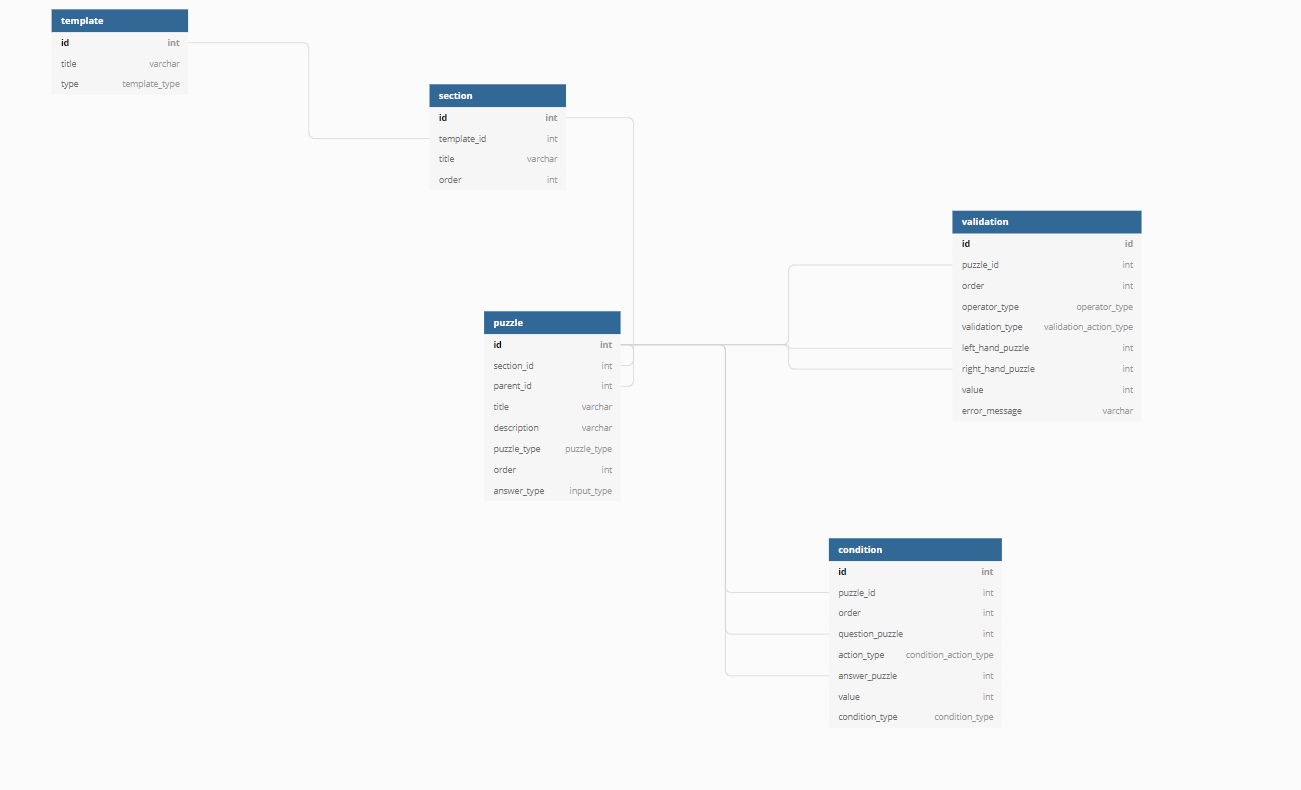
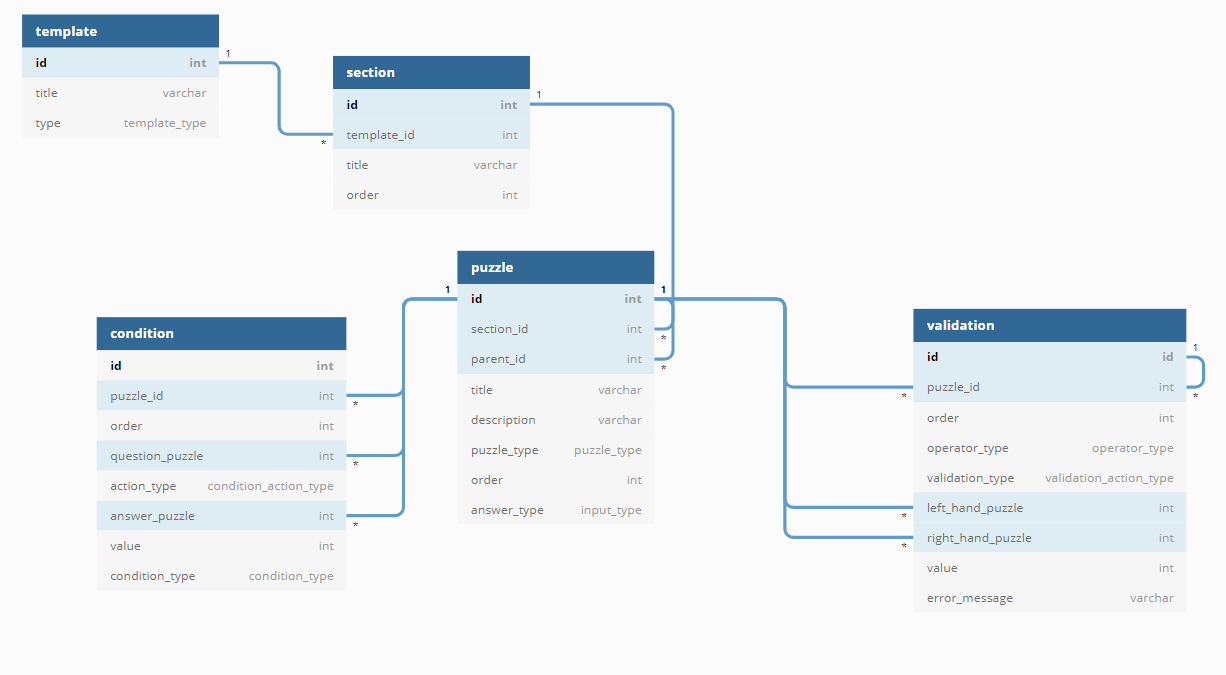
feat(tasks): add tasks architecture

diff --git a/docs/tasks/README.md b/docs/tasks/README.md
@@ -1,0 +1,7 @@
+# Tasks Architecture
+
+You can view the ER diagram using [dbdiagram.io](https://dbdiagram.io) service
+
+Just paste [schema_dbdiagram.txt](schema_dbdiagram.txt) there and you should see something like this 👇
+
+<img width="500" src="schema.png" alt="schema"/>
